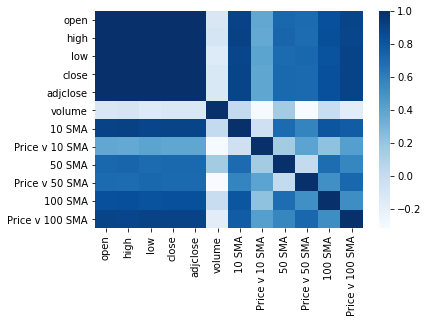
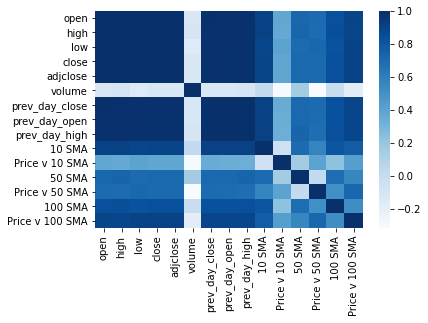
updated features

diff --git a/main.py b/main.py
@@ -21,6 +21,9 @@ def update_df_sma(window, df):
 def read_and_preproces(ticker):
     # read and clean company historical price data
     df = get_data(ticker, start_date="2018-01-01")
+    df["prev_day_close"] = [np.nan] + df["close"].tolist()[:-1]
+    df["prev_day_open"] = [np.nan] + df["open"].tolist()[:-1]
+    df["prev_day_high"] = [np.nan] + df["high"].tolist()[:-1]
     update_df_sma(10, df)
     update_df_sma(50, df)
     update_df_sma(100, df)
@@ -56,9 +59,9 @@ if __name__ == "__main__":
     show_correlation_heatmap(df)
     plot_price(ticker, df)
     
-    X = df[["Price v 10 SMA", "Price v 50 SMA", "Price v 100 SMA"]].to_numpy()
+    X = df[["prev_day_open", "prev_day_close", "prev_day_high", "10 SMA", "50 SMA", "Price v 100 SMA"]].to_numpy()
     y = df["close"].to_numpy()
-    X *= .001 
+    X *= .001
     
     # model construction
     x_train, x_test, y_train, y_test = train_test_split(X, y)
